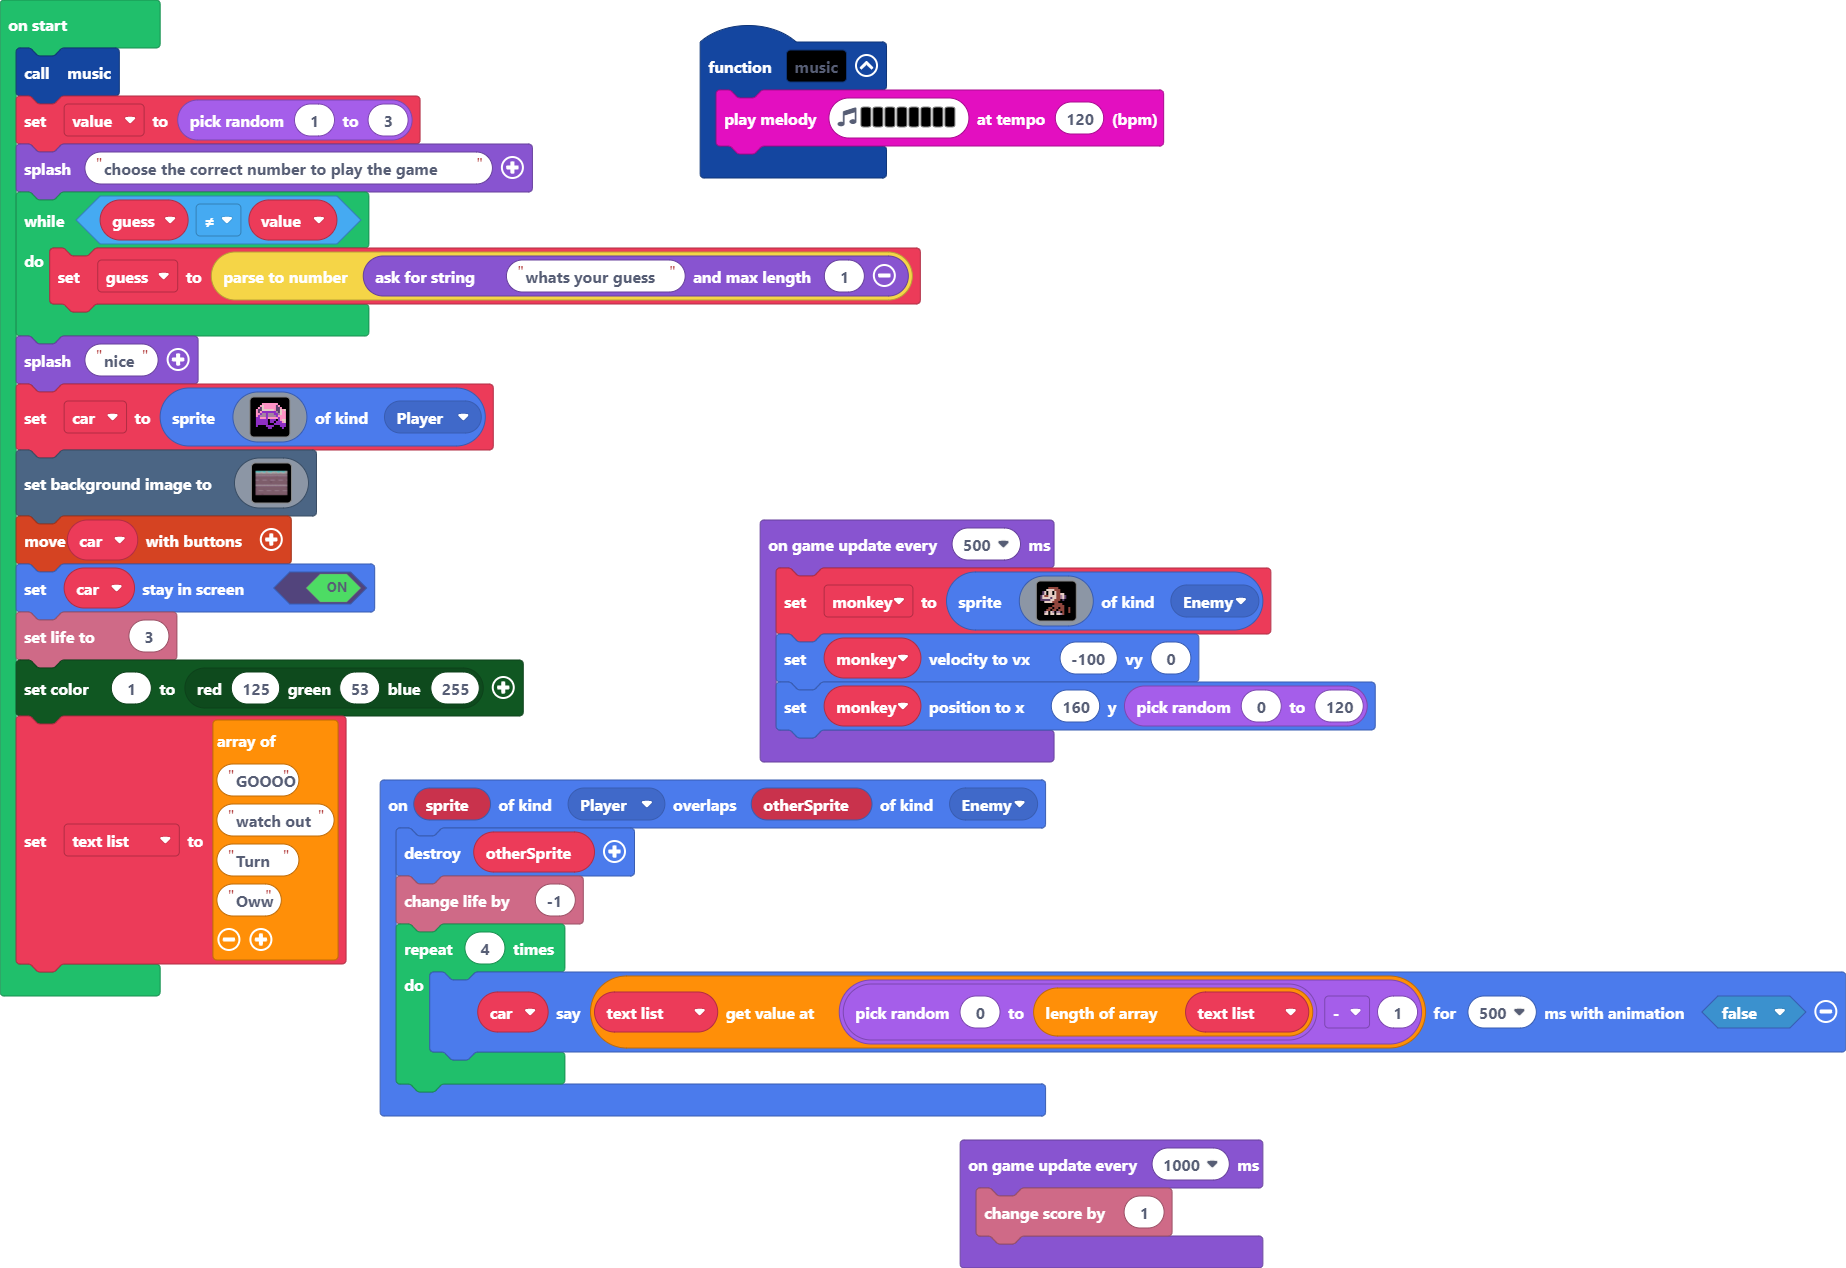
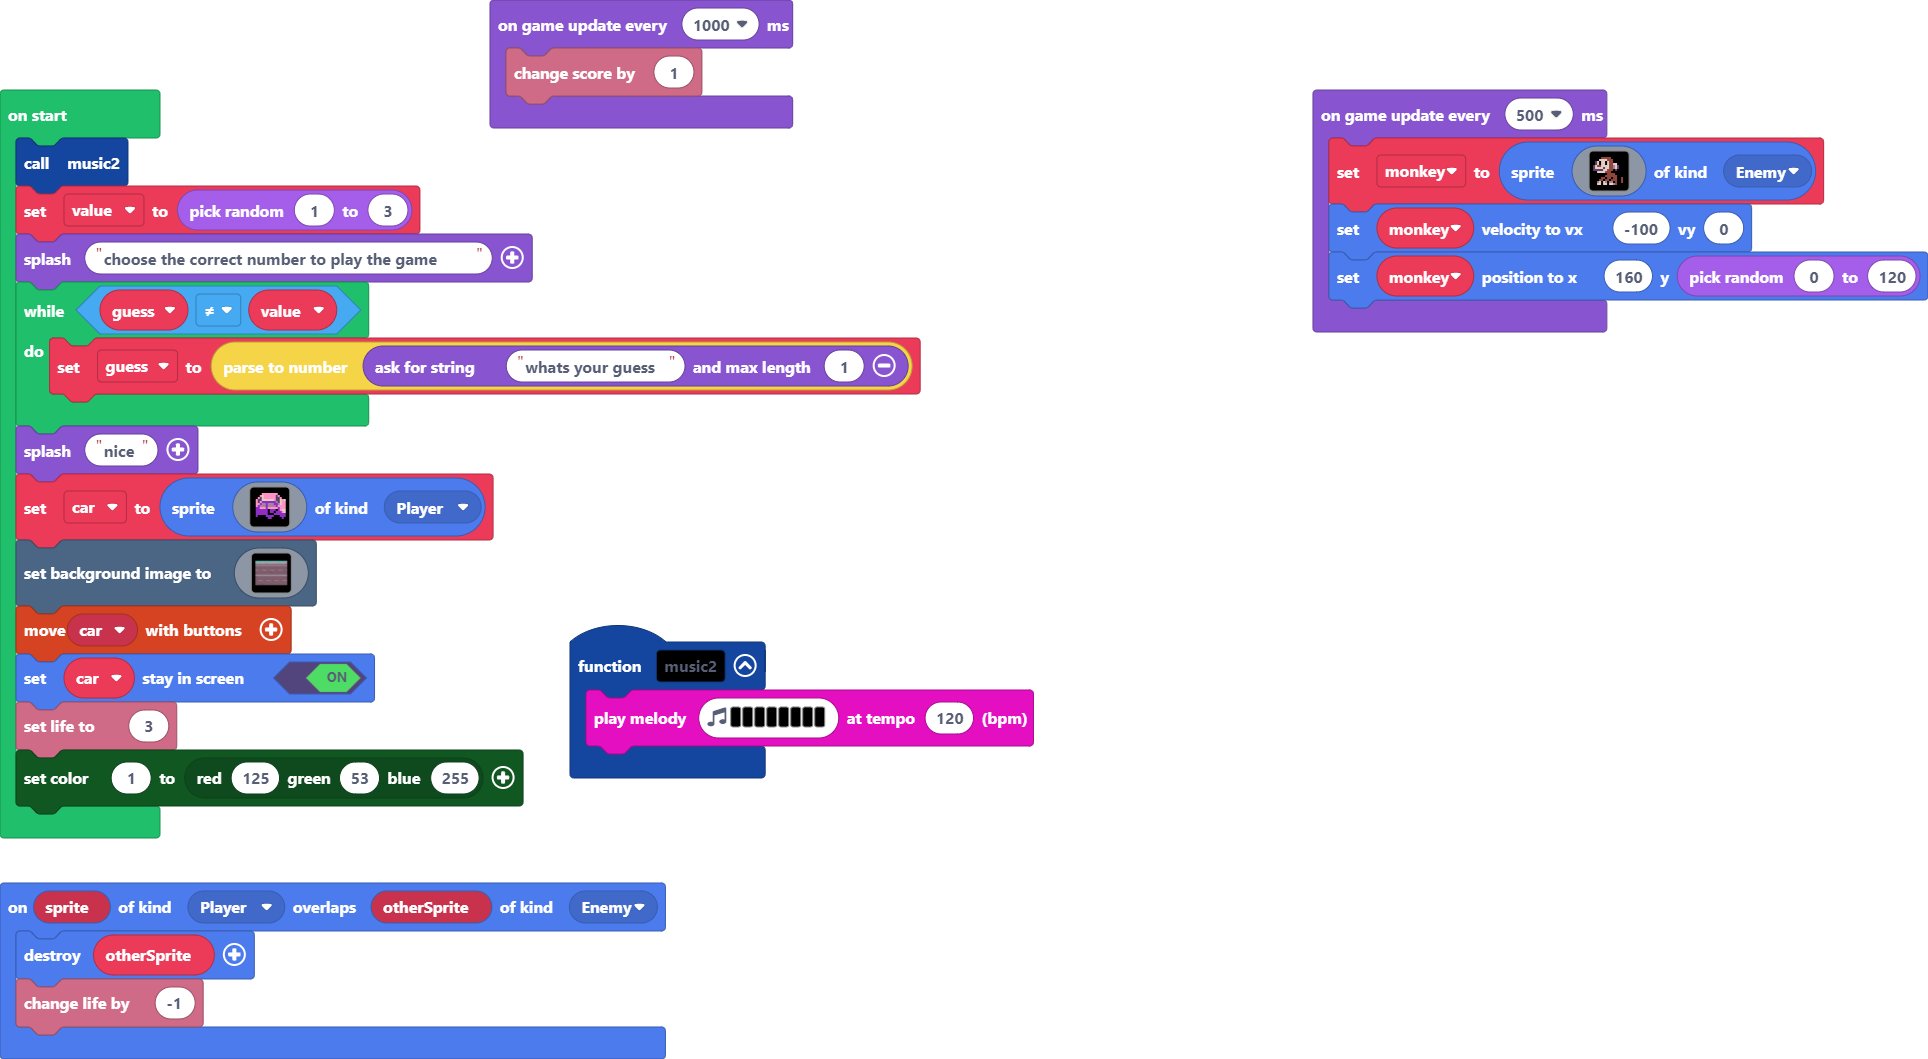
Update main.blocks, main.ts

diff --git a/main.ts b/main.ts
@@ -4,13 +4,8 @@ function music2 () {
 sprites.onOverlap(SpriteKind.Player, SpriteKind.Enemy, function (sprite, otherSprite) {
     otherSprite.destroy()
     info.changeLifeBy(-1)
-    for (let index = 0; index < 4; index++) {
-        car.sayText(text_list[randint(0, text_list.length) - 1], 500, false)
-    }
 })
 let monkey: Sprite = null
-let text_list: string[] = []
-let car: Sprite = null
 let guess = 0
 music2()
 let value = randint(1, 3)
@@ -19,7 +14,7 @@ while (guess != value) {
     guess = parseFloat(game.askForString("whats your guess", 1))
 }
 game.splash("nice")
-car = sprites.create(img`
+let car = sprites.create(img`
     . . . . . . . . . . . . . . . . 
     . . . . 3 3 3 3 3 3 3 3 . . . . 
     . . . 3 d 3 3 3 3 3 3 c 3 . . . 
@@ -163,12 +158,6 @@ controller.moveSprite(car)
 car.setStayInScreen(true)
 info.setLife(3)
 color.setColor(1, color.rgb(125, 53, 255))
-text_list = [
-"GOOOO",
-"watch out",
-"Turn ",
-"Oww"
-]
 game.onUpdateInterval(1000, function () {
     info.changeScoreBy(1)
 })
